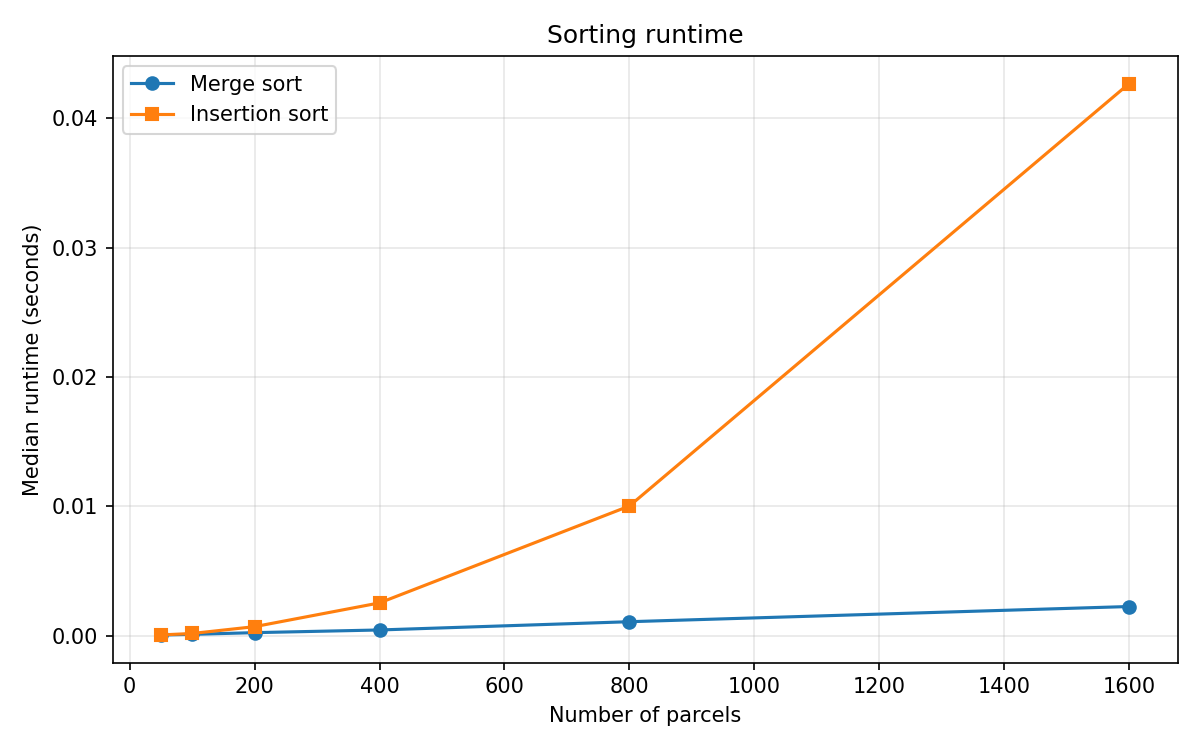
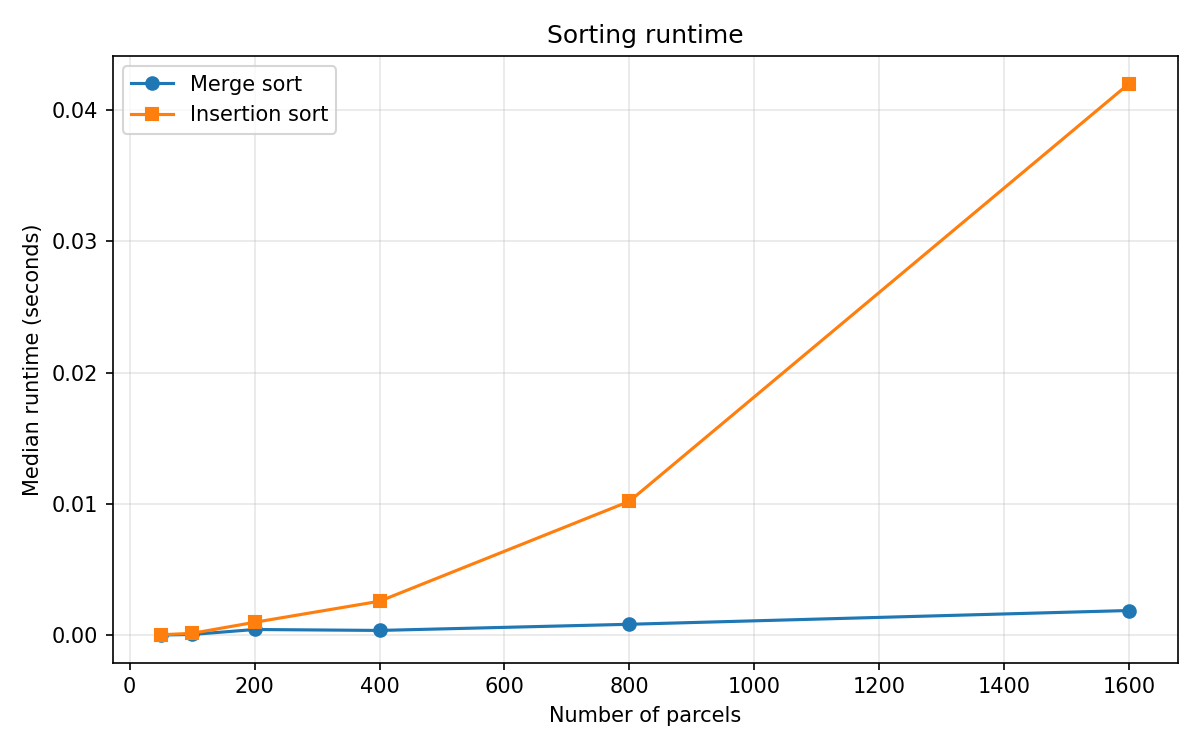
mini-courier planner

diff --git a/main.py b/main.py
@@ -5,13 +5,14 @@ from pathlib import Path
 
 from courier.models import RoadGraph, load_parcels
 from courier.planner import TripPlan, plan_all_trips, plan_trip
+from courier.routing import tour_approximation_ratio
 
 
 ROOT = Path(__file__).parent
 
 
 def format_trip(plan: TripPlan, graph: RoadGraph, trip_number: int = 1) -> str:
-    """Format one trip's parcel, packing, route, and timing results; time and space are O(n + path length)."""
+    """Format one trip's results and exact small-tour comparison; time can include O(k! k), space is O(n + path length)."""
     lines = [f"TRIP {trip_number}", "=" * 72, "Sorted parcels (deadline asc, value desc):"]
     lines.append(f"{'ID':<9} {'Destination':<24} {'kg':>4} {'Value':>6} {'Deadline h':>12}")
     for parcel in plan.sorted_parcels:
@@ -33,9 +34,13 @@ def format_trip(plan: TripPlan, graph: RoadGraph, trip_number: int = 1) -> str:
             "Full road path:",
             "  " + " -> ".join(graph.names[node] for node in plan.road_path),
             f"Total distance: {plan.total_km:.2f} km",
-            "Stage timings:",
         ]
     )
+    stops = plan.stop_order[1:-1]
+    if len(stops) <= 8:
+        ratio = tour_approximation_ratio(graph, plan.stop_order, stops)
+        lines.append(f"Nearest-neighbour approximation ratio: {ratio:.3f}")
+    lines.append("Stage timings:")
     for stage, seconds in plan.timings.items():
         lines.append(f"  {stage.title():<10} {seconds:.6f} seconds")
     return "\n".join(lines)

diff --git a/courier/routing.py b/courier/routing.py
@@ -163,6 +163,19 @@ def brute_force_tour(
     return best_route, best_length
 
 
+def tour_approximation_ratio(
+    graph: RoadGraph, route: Sequence[int], stops: Sequence[int], depot: int = 0
+) -> float:
+    """Compare a tour with the exact optimum for at most eight stops; time is O(k! k), space is O(kV)."""
+    if len(stops) > 8:
+        raise ValueError("Approximation ratio is available only for eight stops or fewer.")
+    actual_length = route_length(graph, route)
+    _, optimal_length = brute_force_tour(graph, stops, depot)
+    if optimal_length == 0:
+        return 1.0 if actual_length == 0 else math.inf
+    return actual_length / optimal_length
+
+
 def expand_tour_to_road_path(
     graph: RoadGraph, route: Sequence[int]
 ) -> tuple[list[int], float]:

diff --git a/tests/test_courier.py b/tests/test_courier.py
@@ -12,6 +12,7 @@ from courier.routing import (
     nearest_neighbor_tour,
     reconstruct_path,
     route_length,
+    tour_approximation_ratio,
     two_opt,
     expand_tour_to_road_path,
 )
@@ -152,6 +153,7 @@ class RoutingTests(unittest.TestCase):
         self.assertLessEqual(improved_length, length + 1e-9)
         self.assertCountEqual(improved_route[1:-1], stops)
         self.assertIsNotNone(optimum_route)
+        self.assertGreaterEqual(tour_approximation_ratio(graph, route, stops), 1.0)
 
     def test_two_opt_matches_or_improves_brute_force(self) -> None:
         """Ensure 2-opt does not exceed the small-instance optimum; time includes O(k! k) oracle."""

diff --git a/docs/REPORT.md b/docs/REPORT.md
@@ -34,7 +34,7 @@ Traceback compares each row with the preceding row. When the value changes, that
 
 The hand-checked test uses weights `(1, 3, 4, 5)`, values `(1, 4, 5, 7)`, and capacity 7. Its measured result is **value 9 at load 7 kg**, selecting the weight-3/value-4 and weight-4/value-5 parcels. The tests also compare dynamic programming to exhaustive subset enumeration on 30 seeded random instances and verify the zero-capacity case.
 
-The runnable sample packing result and sorted table are recorded in [outputs/run_small.txt](../outputs/run_small.txt).
+In the generated small-data one-trip run with capacity 60 kg, the planner selects six parcels for **value 409 at load 58 kg**: `P0008, P0012, P0009, P0004, P0010, P0003`. The sorted table and complete result are recorded in [outputs/run_small.txt](../outputs/run_small.txt).
 
 ## Phase 3 — Graph processing and route maker
 
@@ -42,7 +42,9 @@ Dijkstra's algorithm uses a binary min-heap. It returns distance and predecessor
 
 Nearest neighbour starts at the depot and repeatedly visits the closest unvisited delivery stop according to shortest-path distance. The source's Dijkstra result is cached so it is reused for every remaining candidate from that current stop. The tour returns to the depot. The displayed road path expands each stop-to-stop leg into the actual shortest-path nodes, not just the abstract visit sequence. 2-opt reverses route sections while reducing length. Brute force checks every permutation only for up to eight stops.
 
-The small run's actual stop order, full path, and distance are in [outputs/run_small.txt](../outputs/run_small.txt); the large run is in [outputs/run_large.txt](../outputs/run_large.txt). These values are generated by the current code and are not hand-entered examples.
+For that same small run, the actual stop order is `Depot → Delivery Point 04 → Delivery Point 03 → Delivery Point 09 → Delivery Point 05 → Depot`, with a total shortest-road-path length of **80.01 km**. The expanded road path is in [outputs/run_small.txt](../outputs/run_small.txt); the large run is in [outputs/run_large.txt](../outputs/run_large.txt). These values are generated by the current code and are not hand-entered examples.
+
+Because this trip has four unique stops, the CLI also checks all stop permutations: its observed nearest-neighbour approximation ratio is **1.000** for this sample.
 
 ## Phase 4 — Performance testing and optimization
 
@@ -50,11 +52,16 @@ Run `python3 benchmark.py` to benchmark 50, 100, 200, 400, 800, and 1600 parcels
 
 | Parcels | Nodes | Merge sort (s) | Insertion sort (s) | Knapsack DP (s) | Dijkstra + NN (s) | NN route (km) | 2-opt route (km) |
 |---:|---:|---:|---:|---:|---:|---:|---:|
-<!-- BENCHMARK_TABLE -->
+| 50 | 20 | 0.000033 | 0.000049 | 0.000762 | 0.000166 | 248.13 | 245.64 |
+| 100 | 25 | 0.000074 | 0.000162 | 0.001836 | 0.000500 | 279.43 | 250.87 |
+| 200 | 50 | 0.000453 | 0.001001 | 0.002825 | 0.003401 | 529.98 | 447.77 |
+| 400 | 100 | 0.000381 | 0.002606 | 0.005888 | 0.004582 | 1299.19 | not run |
+| 800 | 200 | 0.000851 | 0.010214 | 0.011984 | 0.019776 | 2185.23 | not run |
+| 1600 | 400 | 0.001898 | 0.042016 | 0.024221 | 0.092487 | 4549.86 | not run |
 
 Charts: [sorting runtime](../outputs/sorting_runtime.png), [runtime per stage (log y-axis)](../outputs/stage_runtime_log.png), and [nearest-neighbour vs 2-opt route length](../outputs/route_length_comparison.png).
 
-The measured sorting chart shows the growth of both algorithms on the same inputs; merge sort's predictable O(n log n) behavior is preferable as the list grows. The runtime-per-stage chart highlights that knapsack cost depends on both parcel count and capacity, while route time depends on both graph and stop count. 2-opt often shortens the initial tour, but its route-quality plot intentionally ends at 60 stops.
+In these measurements, insertion sort grows from 0.000049 s at 50 parcels to 0.042016 s at 1600, while merge sort takes 0.001898 s at 1600. Knapsack grows with the number of item/capacity cells (0.024221 s at 1600 items and capacity 200). Dijkstra plus nearest neighbour increases to 0.092487 s for the 400-stop case. 2-opt shortened each measured route: by 2.49 km, 28.56 km, and 82.21 km for 19, 24, and 49 stops respectively. Timings are machine-dependent; in particular, small measurements can vary with background activity.
 
 Possible improvements:
 

diff --git a/README.md b/README.md
@@ -46,6 +46,7 @@ The route comparison includes 2-opt only when there are at most 60 stops. Exampl
 - 0/1 knapsack uses the full two-dimensional dynamic-programming table and traceback. A brute-force oracle is included for tests only.
 - Binary-heap Dijkstra computes shortest paths on the undirected adjacency-list graph.
 - Nearest-neighbour TSP repeatedly selects the closest unvisited destination using cached Dijkstra trees and returns to the depot. 2-opt can improve that tour; exhaustive TSP is restricted to eight stops for comparison.
+- The CLI reports the nearest-neighbour approximation ratio against the exact tour when a trip has at most eight stops.
 
 ## Data formats
 
